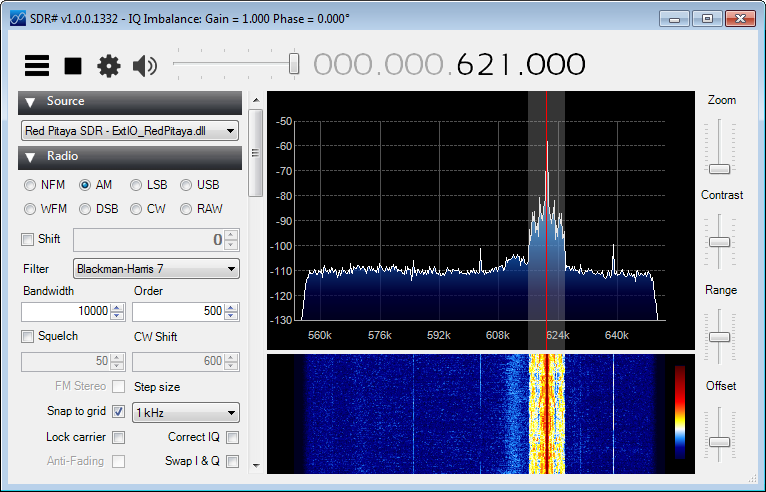
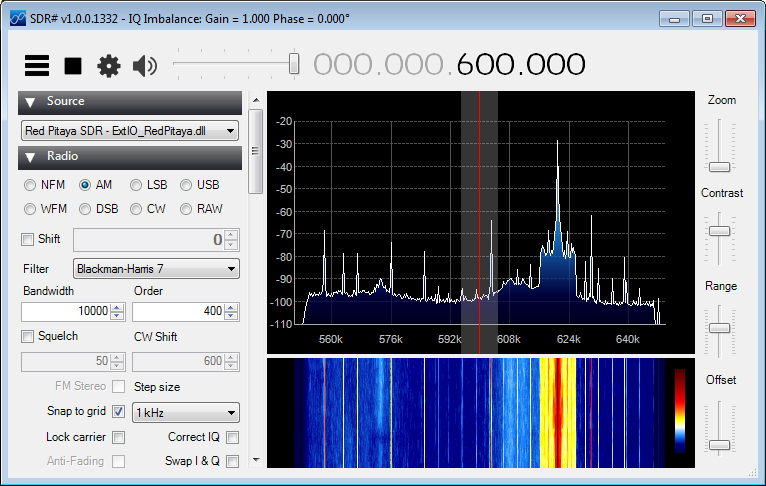
add filter response, update programs, SD card image and screen shot

diff --git a/sdr-receiver.md b/sdr-receiver.md
@@ -7,11 +7,11 @@ permalink: /sdr-receiver/
 Digital Down Converter
 -----
 
-Red Pitaya has all the components of a Software Defined Radio (SDR). In order to test its performance, I've implemented a Digital Down Converter following [Xilinx application note 1113](http://www.xilinx.com/support/documentation/application_notes/xapp1113.pdf). The basic blocks of this converter are shown on the following diagram:
+Red Pitaya has all the components of a Software Defined Radio (SDR). In order to test its performance, I've implemented a Digital Down Converter (DDC) following [Xilinx application note 1113](http://www.xilinx.com/support/documentation/application_notes/xapp1113.pdf). The basic blocks of this converter are shown on the following diagram:
 
 ![SDR receiver]({{ "/img/sdr-receiver.png" | prepend: site.baseurl }})
 
-I/Q demodulator is implemented using the CORDIC algorithm. CIC filter is used to decrease the data rate by a factor of 625. FIR filter compensates for the drop in the CIC frequency response, filters out frequencies above 50 kHz and reduces the data rate by a factor of two.
+I/Q demodulator is implemented using the [CORDIC algorithm](http://www.xilinx.com/products/intellectual-property/cordic.html). [CIC filter](http://www.xilinx.com/products/intellectual-property/cic_compiler.html) is used to decrease the data rate by a factor of 625. [FIR filter](http://www.xilinx.com/products/intellectual-property/fir_compiler.html) compensates for the drop in the CIC frequency response, filters out frequencies above 50 kHz and reduces the data rate by a factor of two.
 
 FIR filter coefficients are calculated with the following code in [R](http://www.r-project.org):
 {% highlight R %}
@@ -45,16 +45,20 @@ h <- fir2(L, f, Mf, window=kaiser(L+1, Beta))
 paste(as.character(h), collapse=", ")
 {% endhighlight %}
 
+To get an idea of the combined (CIC and FIR) filter response, the following figure shows the FFT display from the SDR# program when Red Pitaya inputs are not connected to anything and the SDR# filtering is switched off:
+
+![Filter response]({{ "/img/no-signal.png" | prepend: site.baseurl }})
+
 The [projects/sdr_receiver](https://github.com/pavel-demin/red-pitaya-notes/tree/master/projects/sdr_receiver) directory contains one Tcl file [block_design.tcl](https://github.com/pavel-demin/red-pitaya-notes/blob/master/projects/sdr_receiver/block_design.tcl) that instantiates, configures and interconnects all the needed IP cores.
 
-The [projects/sdr_receiver/multicast](https://github.com/pavel-demin/red-pitaya-notes/tree/master/projects/sdr_receiver/multicast) directory contains two C programs  [sdr_freq.c](https://github.com/pavel-demin/red-pitaya-notes/blob/master/projects/sdr_receiver/multicast/sdr_freq.c) and [sdr_data.c](https://github.com/pavel-demin/red-pitaya-notes/blob/master/projects/sdr_receiver/multicast/sdr_data.c).
+The [projects/sdr_receiver/multicast](https://github.com/pavel-demin/red-pitaya-notes/tree/master/projects/sdr_receiver/multicast) directory contains two C programs  [sdr_ctrl.c](https://github.com/pavel-demin/red-pitaya-notes/blob/master/projects/sdr_receiver/multicast/sdr_ctrl.c) and [sdr_data.c](https://github.com/pavel-demin/red-pitaya-notes/blob/master/projects/sdr_receiver/multicast/sdr_data.c).
 
-The I/Q data stream (2 x 32 bit x 100 kSPS = 6.1 Mbit/s) is transmitted by the `sdr_data` program via IP multicast. The `sdr_freq` program receives multicast packets containing frequency of the sine and cosine waves used for the I/Q demodulation. By default, the multicast address is `239.0.0.39`, the port number for the frequency information is `1001` and the port number for the I/Q data stream is `1002`.
+The I/Q data stream (2 x 32 bit x 100 kSPS = 6.1 Mbit/s) is transmitted by the `sdr_data` program via IP multicast. The `sdr_ctrl` program receives multicast packets containing control commands and frequency of the sine and cosine waves used for the I/Q demodulation. By default, the multicast address is `239.0.0.39`, the port number for the control commands and for the frequency information is `1001`, the port number for the I/Q data stream is `1002`.
 
 User interface
 -----
 
-The I/Q data coming from Red Pitaya can be analyzed and processed by a SDR program like [SDR#](http://sdrsharp.com/#download) or [HDSDR](http://www.hdsdr.de/).
+The I/Q data coming from Red Pitaya can be analyzed and processed by a SDR program such as [SDR#](http://sdrsharp.com/#download) or [HDSDR](http://www.hdsdr.de/).
 
 The SDR programs are communicating with the SDR radio hardware through an External Input Output Dynamic Link Library (ExtIO-DLL). The detailed specifications of this interface and the source code examples can be found at the following links:
 
@@ -72,7 +76,7 @@ For both SDR# and HDSDR, the `ExtIO_RedPitaya.dll` file should be copied to the 
 SD card image
 -----
 
-A pre-built SD card image can be downloaded from [this link](https://googledrive.com/host/0B-t5klOOymMNfmJ0bFQzTVNXQ3RtWm5SQ2NGTE1hRUlTd3V2emdSNzN6d0pYamNILW83Wmc/red-pitaya-sdr-receiver-20150218.zip).
+A pre-built SD card image can be downloaded from [this link](https://googledrive.com/host/0B-t5klOOymMNfmJ0bFQzTVNXQ3RtWm5SQ2NGTE1hRUlTd3V2emdSNzN6d0pYamNILW83Wmc/red-pitaya-sdr-receiver-20150220.zip).
 
 To write the image to SD card, the `dd` command can be used on Linux and Mac OS X and [Win32 Disk Imager](http://sourceforge.net/projects/win32diskimager/) can be used on MS Windows.
 
@@ -81,13 +85,13 @@ The user name is `root` and the default password is `changeme`.
 Starting the two multicast programs on Red Pitaya:
 {% highlight bash %}
 ./sdr_data &
-./sdr_freq &
+./sdr_ctrl &
 {% endhighlight %}
 
 Antenna
 -----
 
-Inspired by the "Wideband active loop antenna" article appeared in the January, 2001 issue of Elektor Electronics, I've build my antenna using 4 pair telephone cable (20 m, 4 x 0.5 mm<sup>2</sup>). The schematic is shown on the following diagram:
+Inspired by the "Wideband active loop antenna" article appeared in the January, 2001 issue of Elektor Electronics, I've build my antenna using 4 pair telephone cable (9 m, 4 x 0.2 mm<sup>2</sup>). The schematic is shown on the following diagram:
 
 ![Antenna]({{ "/img/antenna.png" | prepend: site.baseurl }})
 
@@ -126,15 +130,27 @@ Building `u-boot.elf`, `boot.bin` and `devicetree.dtb`:
 make NAME=sdr_receiver all
 {% endhighlight %}
 
-Building `sdr_freq` and `sdr_data`:
+Building `sdr_ctrl` and `sdr_data`:
 {% highlight bash %}
-arm-linux-gnueabihf-gcc projects/sdr_receiver/multicast/sdr_freq.c -o sdr_freq -lm
+arm-linux-gnueabihf-gcc projects/sdr_receiver/multicast/sdr_ctrl.c -o sdr_ctrl -lm
 arm-linux-gnueabihf-gcc projects/sdr_receiver/multicast/sdr_data.c -o sdr_data -lm
 {% endhighlight %}
 
 Building a bootable SD card image:
 {% highlight bash %}
 sudo sh scripts/image.sh red-pitaya-sdr-receiver.img
+{% endhighlight %}
+
+Copying `sdr_ctrl` and `sdr_data` to SD card image:
+{% highlight bash %}
+device=`sudo losetup -f`
+sudo losetup $device red-pitaya-sdr-receiver.img
+sudo mkdir /tmp/ROOT
+sudo mount /dev/`lsblk -lno NAME $device | sed '3!d'` /tmp/ROOT
+sudo cp sdr_* /tmp/ROOT/root/
+sudo umount /tmp/ROOT
+sudo rmdir /tmp/ROOT
+sudo losetup -d $device
 {% endhighlight %}
 
 Resizing SD card partitions on running Red Pitaya:
